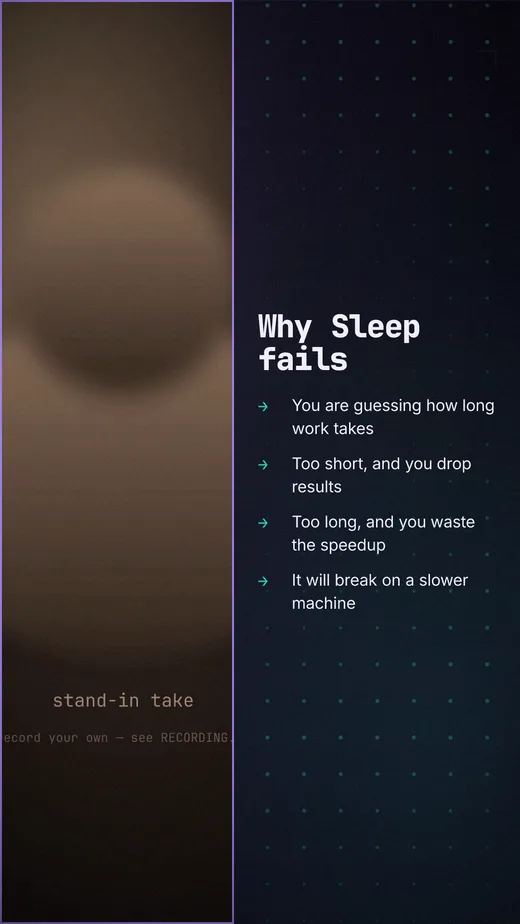
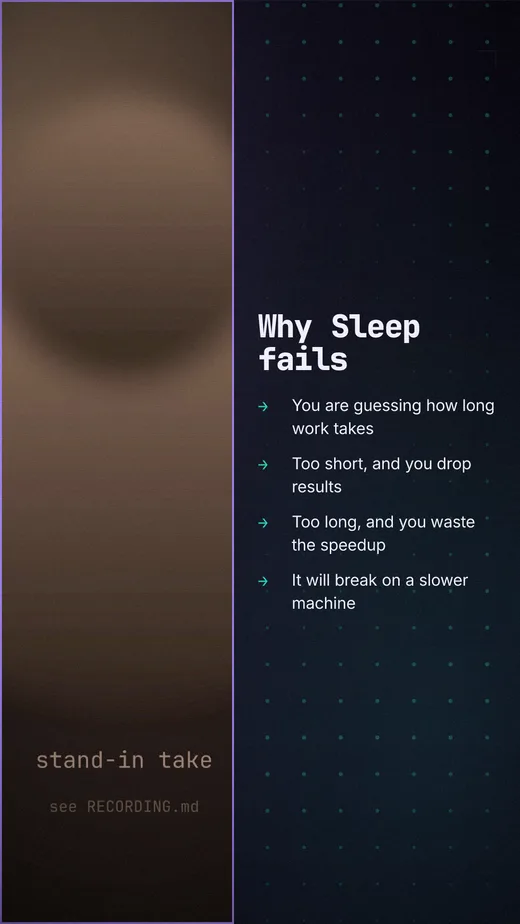
Make the published types resolve, and stop exiting 0 on a bad command
An adversarial pass over the packed tarball, installed with npm into an empty
project outside this repository. All five surfaces already worked — CLI, still,
render with real worker processes, MCP over stdio, library import — but two
things were shipping broken.

Types resolved to nothing. tsc emits `from '@stingo/schema'` because that is
what the source says and the monorepo maps it, but a consumer has no @stingo/*
packages — they are inlined into the bundle. With skipLibCheck off that is
thirteen hard errors on `import … from 'stingo'`; with it on, which is the
`tsc --init` default, the entire API silently degraded to `any`, which is
worse, because it looks like it works. The declarations are now rewritten to
relative paths inside the shipped types tree, and the entry carries a node
reference directive so Buffer resolves without the consumer configuring
anything. Verified from a clean install on a default tsconfig with
skipLibCheck off: clean, and still rejects a wrong type, an unknown builder
method and an unknown theme rather than waving them through.

An unknown command printed help and exited 0, so a typo in anyone's CI would
have passed. It exits 1 now, and `--version` prints the version instead of the
help screen.

The bin probe preferred workspace source at ../../cli/src/index.ts, which from
an installed package resolves to node_modules/cli — an unrelated package whose
code it would then execute. It now confirms the package name first.
[…]

diff --git a/tools/build.ts b/tools/build.ts
@@ -14,7 +14,7 @@
  *  Runtime dependencies stay external: satori, resvg and shiki are large, and
  *  resvg ships a native binary that must not be inlined. */
 import { rm, mkdir, readdir } from 'node:fs/promises';
-import { join } from 'node:path';
+import { join, dirname, relative, sep } from 'node:path';
 import { spawn } from 'bun';
 
 const PKG = 'packages/stingo';
@@ -104,7 +104,55 @@ const t1 = Date.now();
 await run(['node_modules/.bin/tsc', '-p', 'tsconfig.build.json'], 'tsc');
 console.log(`\r  \x1b[32m✓\x1b[0m types     in ${Date.now() - t1}ms`);
 
-// 5. report
+// 5. rewrite the workspace aliases tsc preserved in the declarations
+//
+//    tsc emits `from '@stingo/schema'` because that is what the source says and
+//    the monorepo tsconfig maps it. A consumer has no @stingo/* packages — they
+//    are inlined into the bundle — so every one of those specifiers resolves to
+//    nothing. With skipLibCheck off that is a wall of errors; with it on, which
+//    is the tsc --init default, the whole API silently degrades to `any`, which
+//    is worse. typesVersions cannot help: it maps a package's own subpaths, not
+//    bare specifiers. So the imports are rewritten to relative paths inside the
+//    shipped types tree.
+process.stdout.write('  type paths…');
+const tp = Date.now();
+const typeRoot = join(OUT, 'types');
+let rewritten = 0;
+const walk = async (dir: string): Promise<string[]> => {
+  const out: string[] = [];
+  for (const e of await readdir(dir, { withFileTypes: true })) {
+    const full = join(dir, e.name);
+    if (e.isDirectory()) out.push(...await walk(full));
+    else if (e.name.endsWith('.d.ts')) out.push(full);
+  }
+  return out;
+};
+for (const file of await walk(typeRoot)) {
+  const src = await Bun.file(file).text();
+  const fixed = src.replace(/(['"])@stingo\/([a-z-]+)((?:\/[A-Za-z0-9_.-]+)*)\1/g, (_m, q, pkg, rest) => {
+    const target = join(typeRoot, pkg, rest ? rest.replace(/^\//, '') : 'src/index');
+    let rel = relative(dirname(file), target).split(sep).join('/');
+    if (!rel.startsWith('.')) rel = './' + rel;
+    return q + rel + q;
+  });
+  if (fixed !== src) { await Bun.write(file, fixed); rewritten++; }
+}
+// The public API exposes Buffer (framePixels, framePng, blendUnder), so the
+// declarations name it. Automatic @types inclusion does not reach a dependency's
+// .d.ts reliably, and a consumer on a default tsconfig then gets "Cannot find
+// name 'Buffer'". A reference directive in the entry pulls node's globals in
+// whatever the consumer configured.
+for (const entry of ['stingo/src/index.d.ts', 'stingo/src/media.d.ts']) {
+  const f = join(typeRoot, entry);
+  if (!(await Bun.file(f).exists())) continue;
+  const body = await Bun.file(f).text();
+  if (!body.startsWith('/// <reference types="node"')) {
+    await Bun.write(f, `/// <reference types="node" />\n${body}`);
+  }
+}
+console.log(`\r  \x1b[32m✓\x1b[0m type paths ${rewritten} files in ${Date.now() - tp}ms`);
+
+// 6. report
 const files = await readdir(OUT, { recursive: true } as any);
 console.log(`\n  ${OUT}/`);
 for (const f of (files as string[]).filter((f) => !f.includes('/')).sort()) {

diff --git a/packages/film/src/film.ts b/packages/film/src/film.ts
@@ -141,6 +141,13 @@ export class Film {
         box({ position: 'absolute', left: rect.x, top: rect.y, width: rect.w, height: rect.h }, content));
     }
 
+    // Overlays are appended to the OUTER, full-frame box, but `ctx.stage` is the
+    // block's composition rect — a smaller, offset box. Positioning an overlay
+    // against a substage puts it wherever that rect happens to be, which is how
+    // captions ended up halfway up the frame. Frame furniture gets frame
+    // coordinates.
+    const frameCtx: BlockCtx = { ...ctx, stage };
+
     // captions sit above the block and below the HUD, so they never cover the
     // progress bar and are never covered by scene content
     const caption = this.captions ? captionAt(this.captions, t) : null;
@@ -149,6 +156,7 @@ export class Film {
           {
             words: caption.cue.words,
             activeIndex: caption.wordIndex,
+            style: this.doc.captions?.style ?? 'word',
             age: t - caption.cue.start,
           },
           ctx,
@@ -157,8 +165,8 @@ export class Film {
 
     const overlays = [captionEl,
       ...(this.hud
-        ? [sceneChip(hit.cue.index, this.timeline.cues.length, ctx),
-           progressBar(t, this.timeline.duration, ctx)]
+        ? [sceneChip(hit.cue.index, this.timeline.cues.length, frameCtx),
+           progressBar(t, this.timeline.duration, frameCtx)]
         : [])].filter(Boolean);
 
     const el = overlays.length

diff --git a/tools/gallery.ts b/tools/gallery.ts
@@ -103,13 +103,13 @@ if (!only || only === 'camera') {
   // chest — pulling the crop up is what the offsetY field is for
   await shot({ ...shape, name: 'camera-pip', at: 0.6, scenes: [{ block: 'code',
     lang: 'go', code: GO, highlight: [4, 5], caption: 'go starts it; the channel says when it finished.',
-    camera: { src: take, from: 3, layout: 'pip', corner: 'br', shape: 'circle', size: 0.3, zoom: 1.2, offsetY: -0.2 } }] });
+    camera: { src: take, from: 3, layout: 'pip', corner: 'br', shape: 'circle', size: 0.3, zoom: 1.2, offsetY: -0.27 } }] });
 
   await shot({ ...shape, name: 'camera-split', at: 0.7, scenes: [{ block: 'list',
     title: 'Why Sleep fails', marker: 'arrow',
     items: ['You are guessing how long work takes', 'Too short, and you drop results',
             'Too long, and you waste the speedup', 'It will break on a slower machine'],
-    camera: { src: take, from: 5, layout: 'split', side: 'left', ratio: 0.45, offsetY: -0.08 } }] });
+    camera: { src: take, from: 5, layout: 'split', side: 'left', ratio: 0.45, zoom: 1.25 } }] });
 }
 
 // ── the same scene under three tastes ──────────────────────────────────────

diff --git a/packages/cli/src/index.ts b/packages/cli/src/index.ts
@@ -10,6 +10,8 @@ import { DEFAULT_GRID, toSeconds, type BeatGrid } from '@stingo/core';
 import { dirname, join, resolve, basename, extname } from 'node:path';
 import { mkdir } from 'node:fs/promises';
 
+const VERSION = '0.1.0';
+
 const C = { dim: '\x1b[2m', b: '\x1b[1m', p: '\x1b[35m', t: '\x1b[36m', g: '\x1b[32m', y: '\x1b[33m', r: '\x1b[31m', x: '\x1b[0m' };
 const log = (s = '') => console.log(s);
 const fmtT = (s: number) => `${Math.floor(s / 60)}:${String(Math.floor(s % 60)).padStart(2, '0')}`;
@@ -385,8 +387,19 @@ try {
       break;
     }
 
-    case 'help': default:
+    case 'version': case '--version': case '-v':
+      log(VERSION);
+      break;
+
+    case 'help':
       log(HELP);
+      break;
+
+    default:
+      // exiting 0 on an unknown command means a typo passes silently in CI
+      log(HELP);
+      log(`${C.r}✗ unknown command "${cmd}"${C.x}`);
+      process.exit(1);
   }
 } catch (e: any) {
   log(`${C.r}✗ ${e.message}${C.x}`);

diff --git a/packages/stingo/bin/stingo.ts b/packages/stingo/bin/stingo.ts
@@ -5,6 +5,11 @@
  *  block changes the next render rather than the next build. From an installed
  *  package that source does not exist and only the bundle does. Preferring the
  *  bundle unconditionally would mean every local edit silently ran stale code. */
+// Only trust the workspace source when this really is a checkout: from an
+// installed package the same relative path points at node_modules/cli, which
+// is some unrelated package, and importing it would execute a stranger's code.
 const src = new URL('../../cli/src/index.ts', import.meta.url);
-if (await Bun.file(src).exists()) await import(src.href);
+const inCheckout = await Bun.file(new URL('../../cli/package.json', import.meta.url)).exists()
+  && JSON.parse(await Bun.file(new URL('../../cli/package.json', import.meta.url)).text()).name === '@stingo/cli';
+if (inCheckout && await Bun.file(src).exists()) await import(src.href);
 else await import('../dist/cli.js');

diff --git a/packages/blocks/src/captionlayer.ts b/packages/blocks/src/captionlayer.ts
@@ -8,6 +8,10 @@ export interface CaptionView {
   activeIndex: number;
   /** seconds since this cue appeared, for the entrance */
   age: number;
+  /** `word` picks out the word being said; `line` is a plain subtitle, which
+   *  is what you want under a recorded take where the timing is estimated and
+   *  a highlight that lands on the wrong word is worse than no highlight. */
+  style?: 'word' | 'line';
 }
 
 /** Burned-in captions.
@@ -47,6 +51,10 @@ export function captionLayer(v: CaptionView, c: BlockCtx): El {
       opacity: pop,
     },
       ...v.words.map((w, i) => {
+        if (v.style === 'line') {
+          // a plain subtitle: one weight, no tracking of position
+          return text({ ...typeStyle(c, 'display', size, palette.text) }, w.text);
+        }
         const active = i === v.activeIndex;
         return text({
           ...typeStyle(c, 'display', size, active ? palette.accent : palette.text),

diff --git a/packages/stingo/bin/stingo-mcp.ts b/packages/stingo/bin/stingo-mcp.ts
@@ -1,8 +1,13 @@
 #!/usr/bin/env bun
 /** The MCP server over stdio. Source from a checkout, bundle when installed —
  *  see bin/stingo.ts for why. */
+// Only trust the workspace source when this really is a checkout: from an
+// installed package the same relative path points at node_modules/mcp, which
+// is some unrelated package, and importing it would execute a stranger's code.
 const src = new URL('../../mcp/src/index.ts', import.meta.url);
-const mod = await Bun.file(src).exists()
+const inCheckout = await Bun.file(new URL('../../mcp/package.json', import.meta.url)).exists()
+  && JSON.parse(await Bun.file(new URL('../../mcp/package.json', import.meta.url)).text()).name === '@stingo/mcp';
+const mod = inCheckout && await Bun.file(src).exists()
   ? await import(src.href)
   : await import('../dist/mcp.js');
 await mod.main();

diff --git a/packages/film/src/captions.ts b/packages/film/src/captions.ts
@@ -54,7 +54,11 @@ export interface CaptionOpts {
 export function captionCues(
   doc: VideoDoc, timeline: Timeline, taste: TasteProfile, opts: CaptionOpts = {},
 ): CaptionCue[] {
-  const maxWords = opts.maxWords ?? (doc.canvas.orientation === 'portrait' ? 4 : 7);
+  // `word` style shows a few words at a time so the highlight has somewhere to
+  // travel; `line` is a subtitle and wants a whole readable line at once
+  const lineStyle = doc.captions?.style === 'line';
+  const maxWords = opts.maxWords
+    ?? (doc.canvas.orientation === 'portrait' ? (lineStyle ? 7 : 4) : (lineStyle ? 12 : 7));
   const lead = opts.lead ?? 0.12;
   const cues: CaptionCue[] = [];
 

diff --git a/tools/standin.ts b/tools/standin.ts
@@ -38,7 +38,7 @@ export async function makeStandIn(out: string, opts: { w?: number; h?: number; s
     <text x="${W / 2}" y="${H * 0.74}" font-family="JetBrains Mono" font-size="${W * 0.032}"
           fill="#a4897a" text-anchor="middle">stand-in take</text>
     <text x="${W / 2}" y="${H * 0.775}" font-family="JetBrains Mono" font-size="${W * 0.022}"
-          fill="#6b5a4c" text-anchor="middle">record your own — see RECORDING.md</text>
+          fill="#6b5a4c" text-anchor="middle">see RECORDING.md</text>
   </svg>`;
 
   const fonts = [resolve('assets/fonts/JetBrainsMonoNerdFont-Regular.ttf')];

diff --git a/docs/content/script.md b/docs/content/script.md
@@ -1,6 +1,6 @@
-A video document is YAML, JSON, or a TypeScript module. It has four parts:
-what the film is called, what shape it is, which taste profile it wears, and
-the scenes.
+A video document is YAML, JSON, or a TypeScript module. It says what the film
+is called, what shape it is, which taste profile it wears, what it sounds like,
+whether it is captioned — and, the bulk of it, the scenes.
 
 ```yaml
 title: Concurrency in Go, in five minutes
@@ -77,6 +77,34 @@ committing to a render.
 Music is looped or trimmed to length, faded at both ends, ducked under any
 speech by a sidechain compressor, and normalised to the taste's target
 loudness — −14 LUFS by default, which is what the platforms want.
+
+## captions
+
+```yaml
+captions:
+  enabled: true
+  burn: true
+```
+
+| Field | Type | Default | |
+|---|---|---|---|
+| `enabled` | boolean | `false` | off unless you ask for it |
+| `burn` | boolean | `true` | draw them into the frame |
+| `style` | `word` · `line` | `word` | accepted by the schema, not read yet |
+
+Captions come from the `say` field on each scene — there is no second script to
+keep in sync. Words are spread across the scene at the taste's
+`wordsPerMinute`, grouped into short chunks, and drawn above the platform safe
+area with the word being spoken picked out.
+
+This is **estimated timing, not forced alignment**. It tracks text-to-speech
+generated from the same words; against a recorded take it will drift.
+
+Whenever `enabled` is set, `.srt` and `.vtt` sidecars are written beside the
+MP4 — burned in or not, because a burned-in caption is invisible to search. If
+no scene carries a `say`, `render` says so and writes nothing.
+
+From TypeScript, `.captions()` on the film builder turns them on.
 
 ## scenes
 

diff --git a/docs/content/camera.md b/docs/content/camera.md
@@ -34,6 +34,16 @@ explainer in it.
   delivery           over code          side by side
 ```
 
+<div class="gallery">
+  <figure><img src="../assets/img/camera-full.webp" width="520" height="924" loading="lazy" decoding="async" alt="The take fills the frame, with a lower third and a caption drawn over it."><figcaption>full</figcaption></figure>
+  <figure><img src="../assets/img/camera-pip.webp" width="520" height="924" loading="lazy" decoding="async" alt="A circular corner inset sitting on top of a code block."><figcaption>pip</figcaption></figure>
+  <figure><img src="../assets/img/camera-split.webp" width="520" height="924" loading="lazy" decoding="async" alt="The take down the left side, a list block in the panel beside it."><figcaption>split</figcaption></figure>
+</div>
+
+Those are three moments of one recording, picked with `from`. The take is a
+**generated stand-in**, not footage of anyone — it says so in the frame. Shoot
+your own: [RECORDING.md](https://github.com/aynaash/stingo/blob/main/examples/building-stingo/RECORDING.md).
+
 | Layout | The take | The block content |
 |---|---|---|
 | `full` | fills the frame | draws **over** it — captions stay readable |

diff --git a/docs/content/blocks.md b/docs/content/blocks.md
@@ -494,6 +494,12 @@ That is what makes scrubbing, parallel rendering and deterministic output work.
 | `taste` | the resolved profile: palette, type, motion, texture |
 | `grid` | the beat grid, for anything that should land on the music |
 | `index` | scene number, useful as a deterministic seed |
+| `family` | resolve a font family name against what is actually loaded |
+| `fit` | the largest size at or below one you ask for at which text fits a box |
+| `tokens` | the words that will actually be laid out, already broken to fit |
+
+satori will not shrink text to fit, so a block that renders a headline without
+asking `fit` for a size is a block that can run it off the edge of the frame.
 
 Size everything from `stage.unit` and the `T.*` scale. That is what lets one
 composition render at 1080×1920 and 1920×1080 without a second layout.
